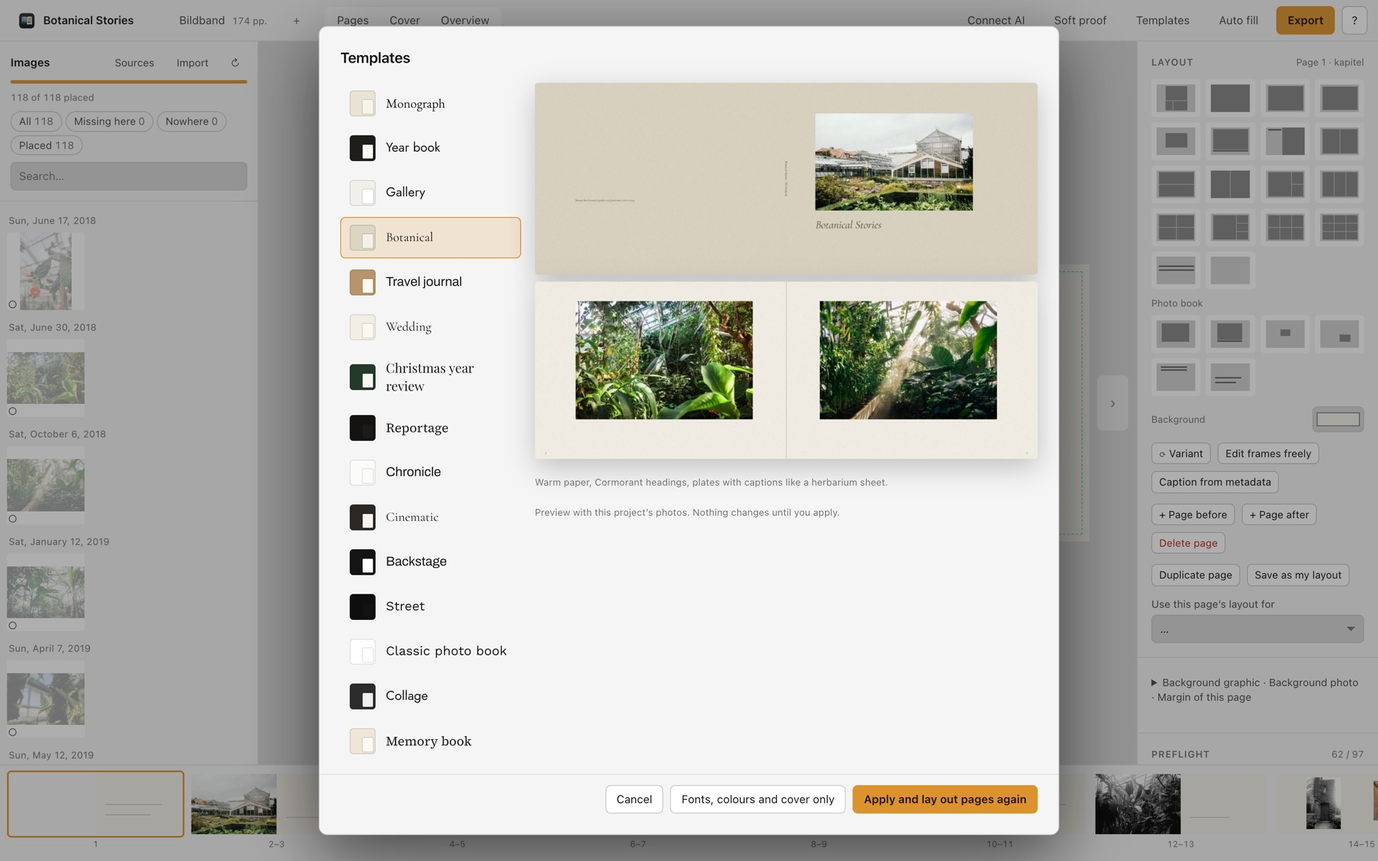
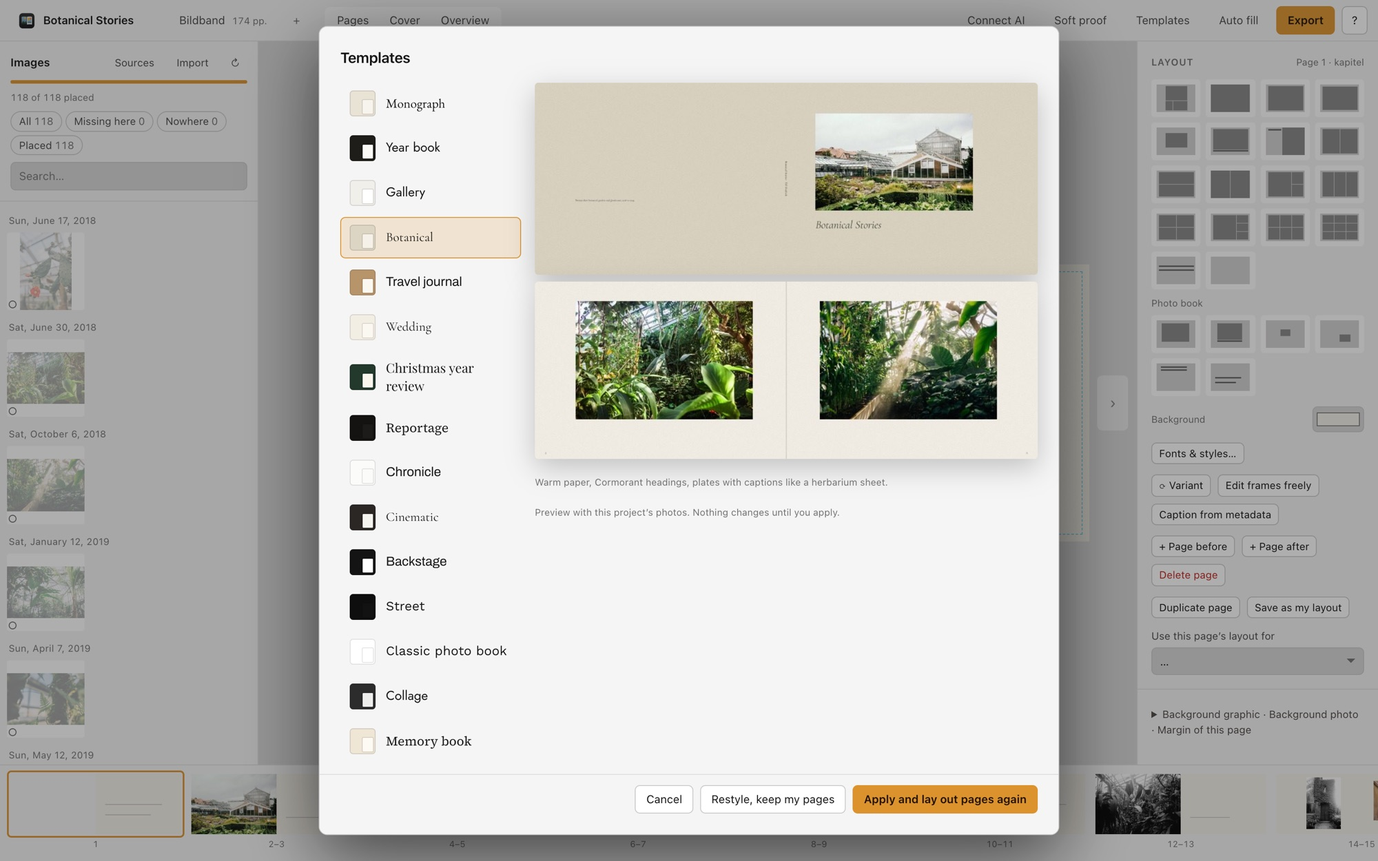
0.13.1: fonts from this Mac (incl. .ttc), fonts & styles in the page panel
- System font list with search, whole families added, .ttc split, cmap patched for Mac fonts
- Installed fonts are not packed into project files
- Italic detection from font flags; Backstage chapter size; updateSlot prototype guard
- Website/README: fonts note, release notes, templates screenshot with the new button label
- Test: sysfonts

Claude-Session: https://claude.ai/code/session_01TXoPa5GcpFpK5a3D2iG9aD

Changed region(s): [[0.837, 0.4992, 0.992, 0.7488], [0.837, 0.78, 0.992, 0.8736], [0.434, 0.9048, 0.62, 0.936]]

diff --git a/public/lib/i18n.js b/public/lib/i18n.js
@@ -21,7 +21,7 @@ export const STRINGS = {
     margin: 'Rand', gutter: 'Zusatz Bund', gap: 'Abstand', bleed: 'Beschnitt', safety: 'Sicherheitsabstand', glue: 'Klebezone', resolution: 'Auflösung',
     colorMode: 'Farbe', cmyk: 'CMYK (Druck)', rgb: 'RGB', icc: 'ICC-Profil', noIcc: 'Kein Profil gefunden – Standard-CMYK von libvips',
     font: 'Schrift', sans: 'Serifenlos', serif: 'Serif', pageBg: 'Seitenfarbe',
-    autoFill: 'Automatisch füllen', autoOrder: 'Reihenfolge', cropAspect: 'Zuschnitt (Seitenverhältnis)', cropOriginal: 'Original', reloadedExternal: 'Projekt wurde woanders geändert und neu geladen.', pagesShort: '{n} S.', onlySelected: '{n} ausgewählt → nur diese', orderLightroom: 'Wie in der Lightroom-Sammlung', orderTime: 'Aufnahmedatum', orderName: 'Dateiname', orderRating: 'Sterne (beste zuerst)', moveToSpread: 'Auf diese Doppelseite verschoben', autoTitle: 'Seiten automatisch füllen', perPage: 'Bilder pro Seite', highlight: 'Eigene Seite ab Sternen', none: 'keine',
+    autoFill: 'Automatisch füllen', autoOrder: 'Reihenfolge', macFonts: 'Schrift von diesem Mac', macFontsNote: 'Alle installierten Schriften, auch Systemschriften wie Helvetica oder Avenir. Alle Schnitte einer Familie kommen ins Projekt. Im Druck-PDF steht Text als Kurven, die Druckerei braucht die Schrift nicht. In Projektdateien zum Weitergeben werden diese Schriften nicht eingepackt.', noFonts: 'Keine passende Schrift', add: 'Hinzufügen', loading: 'Lädt …', cropAspect: 'Zuschnitt (Seitenverhältnis)', cropOriginal: 'Original', reloadedExternal: 'Projekt wurde woanders geändert und neu geladen.', pagesShort: '{n} S.', onlySelected: '{n} ausgewählt → nur diese', orderLightroom: 'Wie in der Lightroom-Sammlung', orderTime: 'Aufnahmedatum', orderName: 'Dateiname', orderRating: 'Sterne (beste zuerst)', moveToSpread: 'Auf diese Doppelseite verschoben', autoTitle: 'Seiten automatisch füllen', perPage: 'Bilder pro Seite', highlight: 'Eigene Seite ab Sternen', none: 'keine',
     which: 'Welche Bilder', onlyUnplaced: 'Nur die, die hier noch fehlen', onlyNowhere: 'Nur die, die nirgends sind', allImages: 'Alle', minStars: 'Mindestens Sterne',
     breakGaps: 'Neue Seite bei Zeitsprung (Stunden)', replacePages: 'Bestehende Seiten ersetzen', appendPages: 'Hinten anhängen', pagesCreated: '{n} Seiten angelegt',
     export: 'Export', exportTitle: 'Exportieren', fontsStylesTitle: 'Schriften und Textstile', interior: 'Inhalt', exportPrint: 'Druckdaten', exportPreview: 'Vorschau (klein, RGB)',
@@ -141,7 +141,7 @@ export const STRINGS = {
     margin: 'Margin', gutter: 'Extra gutter', gap: 'Gap', bleed: 'Bleed', safety: 'Safety margin', glue: 'Glue zone', resolution: 'Resolution',
     colorMode: 'Colour', cmyk: 'CMYK (print)', rgb: 'RGB', icc: 'ICC profile', noIcc: 'No profile found – libvips default CMYK',
     font: 'Font', sans: 'Sans serif', serif: 'Serif', pageBg: 'Page colour',
-    autoFill: 'Auto fill', autoOrder: 'Order', cropAspect: 'Crop (aspect ratio)', cropOriginal: 'Original', reloadedExternal: 'The project was changed elsewhere and has been reloaded.', pagesShort: '{n} pp.', onlySelected: '{n} selected → only these', orderLightroom: 'As in the Lightroom collection', orderTime: 'Capture date', orderName: 'File name', orderRating: 'Stars (best first)', moveToSpread: 'Moved to this spread', autoTitle: 'Fill pages automatically', perPage: 'Photos per page', highlight: 'Own page from stars', none: 'none',
+    autoFill: 'Auto fill', autoOrder: 'Order', macFonts: 'Font from this Mac', macFontsNote: 'Every installed font, system fonts like Helvetica or Avenir included. All styles of a family go into the project. Text goes into the print PDF as outlines, so the print shop needs no fonts. These fonts are not packed into project files you pass on.', noFonts: 'No matching font', add: 'Add', loading: 'Loading …', cropAspect: 'Crop (aspect ratio)', cropOriginal: 'Original', reloadedExternal: 'The project was changed elsewhere and has been reloaded.', pagesShort: '{n} pp.', onlySelected: '{n} selected → only these', orderLightroom: 'As in the Lightroom collection', orderTime: 'Capture date', orderName: 'File name', orderRating: 'Stars (best first)', moveToSpread: 'Moved to this spread', autoTitle: 'Fill pages automatically', perPage: 'Photos per page', highlight: 'Own page from stars', none: 'none',
     which: 'Which photos', onlyUnplaced: 'Only those missing here', onlyNowhere: 'Only those used nowhere', allImages: 'All', minStars: 'Minimum stars',
     breakGaps: 'New page after time gap (hours)', replacePages: 'Replace existing pages', appendPages: 'Append', pagesCreated: '{n} pages created',
     export: 'Export', exportTitle: 'Export', fontsStylesTitle: 'Fonts and text styles', interior: 'Interior', exportPrint: 'Print files', exportPreview: 'Proof (small, RGB)',

diff --git a/public/app.js b/public/app.js
@@ -839,6 +839,7 @@ function renderInspector() {
       h('h3', {}, t('layout'), h('span', {}, `${title} · ${tl(p.layout)}`)), lays,
       h('div', { class: 'row between' }, h('span', { class: 'muted' }, t('background')),
         h('input', { class: 'input', type: 'color', value: p.bg || e.bg || '#ffffff', style: { width: '60px' }, onchange: (ev) => mutate((pr) => ops.setPageProps(pr, e.id, own.owner, { bg: ev.target.value })) })),
+      h('div', { class: 'row' }, h('button', { class: 'btn small', onclick: () => stylesModal() }, t('fontsAndStyles'))),
       h('div', { class: 'row' },
         h('button', { class: 'btn small', title: 'Space', onclick: () => mutate((pr) => ops.shuffleLayout(pr, e.id, own.owner)) }, `⟳ ${t('shuffle')}`),
         p.layout !== 'frei' ? h('button', { class: 'btn small', onclick: () => mutate((pr) => ops.toFreeLayout(pr, e.id, own.owner, aspectOf)) }, t('freeEdit')) : null,
@@ -1087,7 +1088,14 @@ function stylesModal() {
               $('#fontcss').href = `/api/fonts.css?p=${S.project.id}&v=${Date.now()}`;
               toast(t('fontAdded', { name: r.result.added[0]?.name || '' })); draw(); renderAll();
             } catch (err) { toast(err.message); }
-          } }, `+ ${t('addFont')}`)),
+          } }, `+ ${t('addFont')}`),
+          h('button', { class: 'btn small', onclick: () => systemFontsModal(async (paths) => {
+            if (S.pendingSave) await save();
+            const r = await api(`/api/project/${S.project.id}/op`, { body: { op: 'addFont', args: { paths } } });
+            S.project = r.project; S.catalog = await api(`/api/design-catalog?p=${S.project.id}`);
+            $('#fontcss').href = `/api/fonts.css?p=${S.project.id}&v=${Date.now()}`;
+            toast(t('fontAdded', { name: r.result.added[0]?.name || '' })); draw(); renderAll();
+          }) }, `+ ${t('macFonts')}`)),
         h('small', { class: 'muted' }, t('fontNote')));
     };
     draw();
@@ -1421,6 +1429,33 @@ function editionModal(existing) {
 // A selection is laid out in the chosen order, not in the order the photos were clicked.
 function orderedSelection(order) {
   return ops.orderItems(S.pool.filter((it) => S.poolSel.has(it.key)), order).map((it) => it.key);
+}
+
+// Fonts installed on this computer: search, pick a family, all its styles are added to the project.
+function systemFontsModal(onPick) {
+  modal((close) => {
+    const list = h('div', { class: 'list sysfonts' }, h('small', { class: 'muted' }, t('loading')));
+    const search = h('input', { class: 'input', type: 'search', placeholder: t('search'), autofocus: true });
+    let all = [];
+    const draw = () => {
+      const q = search.value.trim().toLowerCase();
+      list.innerHTML = '';
+      const hits = all.filter((f) => !q || f.family.toLowerCase().includes(q)).slice(0, 200);
+      if (!hits.length) list.append(h('small', { class: 'muted' }, t('noFonts')));
+      for (const f of hits) {
+        const styles = f.styles.map((x) => `${x.weight}${x.italic ? 'i' : ''}`).join(' · ');
+        list.append(h('div', { class: 'row between' }, h('div', {}, h('b', {}, f.family), h('div', { class: 'muted small' }, styles)),
+          h('button', { class: 'btn small', onclick: async (ev) => {
+            ev.target.disabled = true;
+            try { await onPick(f.styles.map((x) => x.path)); close(); } catch (err) { toast(err.message); ev.target.disabled = false; }
+          } }, t('add'))));
+      }
+    };
+    search.addEventListener('input', draw);
+    api('/api/system-fonts').then((r) => { all = r; draw(); }).catch((err) => { list.innerHTML = ''; list.append(h('small', { class: 'muted' }, err.message)); });
+    return [h('h2', {}, t('macFonts')), h('p', { class: 'muted' }, t('macFontsNote')), search, list,
+      h('div', { class: 'foot' }, h('button', { class: 'btn', onclick: close }, t('close')))];
+  }, { wide: true });
 }
 
 function autoModal() {

diff --git a/public/lib/templates.js b/public/lib/templates.js
@@ -154,7 +154,7 @@ export const TEMPLATES = [
     font: 'archivo',
     styles: {
       cover: { size: 72, weight: 700, caps: true, tracking: -40, color: '#ffffff', align: 'left' }, title: { size: 34, weight: 700, caps: true, tracking: -30, align: 'left' },
-      chapter: { size: 88, weight: 700, tracking: -50, color: '#141414', align: 'left' }, caption: { size: 7.5, weight: 700, caps: true, tracking: 60, color: '#141414', align: 'left' },
+      chapter: { size: 64, weight: 700, tracking: -40, color: '#141414', align: 'left' }, caption: { size: 7.5, weight: 700, caps: true, tracking: 60, color: '#141414', align: 'left' },
       body: { size: 9.5, leading: 1.35, weight: 500 }, spine: { size: 11, weight: 700, caps: true, tracking: 0 },
     },
     page: { bg: '#ffffff' },

diff --git a/public/styles.css b/public/styles.css
@@ -354,3 +354,6 @@ img.bgthumb{width:48px;height:32px;object-fit:cover;border-radius:3px}
 .tpl-view { display: grid; gap: var(--s2); }
 .tpl-imgs { display: grid; gap: var(--s2); }
 .tpl-prev { width: 100%; border-radius: 4px; background: var(--ink-2); min-height: 120px; box-shadow: var(--stage-shadow); }
+.sysfonts { max-height: 420px; margin-top: 10px; }
+.sysfonts .row { padding: 6px 8px; border-bottom: 1px solid var(--line-soft); }
+.sysfonts .small { font-size: 11px; }

diff --git a/site/build.py b/site/build.py
@@ -6,7 +6,7 @@ import os, sys, html, shutil
 
 REPO = "https://github.com/tillheidrich/billerbook"
 DL = REPO + "/releases/latest"
-VERSION = "0.13.0"
+VERSION = "0.13.1"
 BASE = "https://billerbook.heidrich-digital.de/"
 
 ARROW = '<svg class="i" viewBox="0 0 16 16" aria-hidden="true"><path d="M4 12 12 4M6 4h6v6"/></svg>'
@@ -36,7 +36,7 @@ T = {
    ("w5", "Ask your AI to build the book", "Billerbook includes an MCP server with 51 tools for Claude, ChatGPT, Codex or Cursor. Connect ChatGPT or claude.ai with a six-digit code from the app. The assistant reads a folder, a web page or your print shop's data sheet, sets up the print profile, lays out the book, looks at every spread as an image and fixes the ones that don't work. You check the result in the app.", None, "prompt"),
    ("w7", "Your print shop, its rules", "208 formats from Blurb, Amazon KDP, Lulu, IngramSpark, Mixam, Saal Digital, CEWE, WhiteWall, PrestoPhoto and WIRmachenDRUCK, plus standard photo book, book and magazine sizes and a special size for every binding. The spine width follows from page count and paper, using the printer's own formula or table. Hand your assistant the print shop's data sheet PDF and it sets up trim, bleed, cover and page rules from it. Magazines come with saddle stitching and a separate four-page cover if the printer wants one.", "app-printsettings.webp", None),
    ("w6", "In the book, and visible in Lightroom", "Billerbook reads your Lightroom Classic catalog and never writes to it, and lays out in the order of your collection, custom order included. The optional plug-in exports the print files with your edits, keeps a collection per edition in Lightroom and one with the photos still missing. Books from the Book module import with their pages, and the 240-page limit is gone: that one comes from Blurb, not from your book.", "app-overview-012.webp", None),
-   ("w6", "Fifteen book styles", "From a quiet monograph to loud backstage: Reportage in black and white on dark paper, Chronicle with place and date under every photo, Cinematic with lots of full bleed, Street, and the classic lab look. Apply one to a finished book and it takes the style while your own pages stay. Preview with your own photos first.", "app-templates-013.webp", None),
+   ("w6", "Fifteen book styles", "From a quiet monograph to loud backstage: Reportage in black and white on dark paper, Chronicle with place and date under every photo, Cinematic with lots of full bleed, Street, and the classic lab look. Apply one to a finished book and it takes the style while your own pages stay. Preview with your own photos first.", "app-templates-0131.webp", None),
    ("w6", "Everything the Book module does", "Duplicate pages, copy a layout to the next page or to every page with the same number of photos, save your own layouts, set a background photo with opacity, change margin and gap on one page, hide a page number.", "app-pagetools.webp", None),
    ("w6", "Cover with a real spine", "The cover is sized from page count and paper, including spine width, turn-in and hinge. Billerbook sets the title and spine text, and you can change both. Preflight warns about low resolution, the glue zone, page limits and an estimated spine before you pay.", "app-cover-012.webp", None),
   ],
@@ -122,7 +122,7 @@ T = {
    ("w5", "Lass deine KI das Buch bauen", "Billerbook bringt einen MCP-Server mit 51 Werkzeugen für Claude, ChatGPT, Codex oder Cursor mit. ChatGPT und claude.ai verbindest du mit einem sechsstelligen Code aus der App. Der Assistent liest einen Ordner, eine Webseite oder das Datenblatt deiner Druckerei, richtet das Druckprofil ein, legt das Buch an, sieht sich jede Doppelseite als Bild an und ändert die, die nicht funktionieren. Du prüfst das Ergebnis in der App.", None, "prompt"),
    ("w7", "Deine Druckerei, ihre Regeln", "208 Formate von WIRmachenDRUCK, Saal Digital, CEWE, WhiteWall, Blurb, Amazon KDP, Lulu, IngramSpark, Mixam und PrestoPhoto, dazu gängige Fotobuch-, Buch- und Magazinformate und ein Sonderformat für jede Bindung. Die Rückenbreite folgt aus Seitenzahl und Papier, nach Formel oder Tabelle der Druckerei. Gib deinem Assistenten das Datenblatt der Druckerei als PDF, dann richtet er Endformat, Beschnitt, Umschlag und Seitenregeln danach ein. Magazine gibt es mit Rückendrahtheftung und auf Wunsch mit separatem vierseitigem Umschlag.", "app-printsettings.webp", None),
    ("w6", "Im Buch, und in Lightroom sichtbar", "Billerbook liest deinen Lightroom-Classic-Katalog, schreibt nie hinein und gestaltet in der Reihenfolge deiner Sammlung, auch einer eigenen. Das Plug-in exportiert die Druckdateien mit deinen Entwicklungen, legt eine Sammlung je Edition an und eine mit den Fotos, die noch fehlen. Bücher aus dem Buch-Modul kommen samt Seiten mit, und die 240-Seiten-Grenze fällt weg: Die kommt von Blurb, nicht von deinem Buch.", "app-overview-012.webp", None),
-   ("w6", "Fünfzehn Buchstile", "Von der ruhigen Monografie bis Backstage: Reportage in Schwarzweiß auf dunklem Papier, Zeitdokument mit Ort und Datum unter jedem Foto, Kinematisch mit viel Randlosem, Straße und der klassische Fotobuch-Look. Auf ein fertiges Buch angewendet übernimmt es den Stil, deine eigenen Seiten bleiben. Vorher mit deinen Fotos ansehen.", "app-templates-013.webp", None),
+   ("w6", "Fünfzehn Buchstile", "Von der ruhigen Monografie bis Backstage: Reportage in Schwarzweiß auf dunklem Papier, Zeitdokument mit Ort und Datum unter jedem Foto, Kinematisch mit viel Randlosem, Straße und der klassische Fotobuch-Look. Auf ein fertiges Buch angewendet übernimmt es den Stil, deine eigenen Seiten bleiben. Vorher mit deinen Fotos ansehen.", "app-templates-0131.webp", None),
    ("w6", "Alles, was das Buch-Modul kann", "Seiten duplizieren, ein Layout auf die nächste Seite oder alle Seiten mit gleich vielen Fotos übertragen, eigene Layouts speichern, Hintergrundfoto mit Deckkraft, Rand und Abstand je Seite, Seitenzahl ausblenden.", "app-pagetools.webp", None),
    ("w6", "Umschlag mit echtem Buchrücken", "Der Umschlag wird aus Seitenzahl und Papier berechnet, mit Rückenbreite, Einschlag und Falz. Billerbook setzt Titel und Rückentext, du kannst beides ändern. Die Prüfung meldet zu geringe Auflösung, die Klebezone, Seitengrenzen und einen geschätzten Rücken, bevor du bezahlst.", "app-cover-012.webp", None),
   ],
@@ -361,7 +361,7 @@ K = {
    "web": ("tillheidrich.de · 22 galleries", [("22", "Gallery pages read", "ok", "OK"), ("8", "Photos per garden, evenly spread", "", "Picked"), ("H1", "Titles became chapter pages", "ok", "Chapters"), ("Text", "Paragraphs became text pages", "", "Pages")],
           "How the example book was made", "A website in, a book out", "Botanical Stories came from 22 galleries in one import."),
   },
-  notes=[("Several editions.", "A big landscape hardcover and a short portrait softcover from the same photos."), ("Crop like Lightroom.", "Square, 4:5, 3:2, 16:9 or panorama per photo; Billerbook finds the subject and crops around it."), ("Captions.", "From the photo's metadata, editable on the page."), ("Your fonts.", "Nine open-licence typefaces built in, your own TTF or OTF on top.")],
+  notes=[("Several editions.", "A big landscape hardcover and a short portrait softcover from the same photos."), ("Crop like Lightroom.", "Square, 4:5, 3:2, 16:9 or panorama per photo; Billerbook finds the subject and crops around it."), ("Captions.", "From the photo's metadata, editable on the page."), ("Your fonts.", "Nine open-licence typefaces built in, plus any font installed on your Mac or your own TTF or OTF.")],
   steps_h="From folder to print shop", steps_h2="in an afternoon.",
   steps_cta="Download Billerbook",
   steps=[("Add photos.", "A folder, a Lightroom collection, a Capture One album or a web page."), ("Pick the print shop.", "Format, paper and binding; the spine follows from the page count."),
@@ -380,7 +380,8 @@ K = {
   off_svg=dict(photos="Your photos", photos2="Folder, Lightroom, Capture One", app="Billerbook", app2="on your Mac", pdf="Print PDFs", pdf2="Interior and cover", shop="Print shop", shop2="You upload", ai="AI assistant", ai2="Six-digit code, no file paths"),
   story_h="Why it exists",
   log_h="Release notes", log_sub="What changed lately. Every version is on GitHub with its download.",
-  log=[("0.13.0", "Fifteen book styles, four of them in the manner of well-known photo books, crop ratios like in Lightroom, portrait photos at full page height.", "2026-11-26"),
+  log=[("0.13.1", "Any font installed on your Mac, Helvetica and Avenir included; fonts and styles from the page panel.", "2026-11-26"),
+       ("0.13.0", "Fifteen book styles, four of them in the manner of well-known photo books, crop ratios like in Lightroom, portrait photos at full page height.", "2026-11-26"),
        ("0.12.0", "Lightroom plug-in exports the print files itself, previews straight from RAW files, layout in the order of your Lightroom collection, drag photos onto any spread.", "2026-11-26"),
        ("0.11.1", "Fixes from an independent security review of the new import and export paths.", "2026-11-22"),
        ("0.11.0", "208 formats, magazines, data-sheet setup, templates and fonts, IDML for Affinity and InDesign, Capture One, page overview, ChatGPT and claude.ai over OAuth.", "2026-11-22"),
@@ -470,7 +471,7 @@ K = {
    "web": ("tillheidrich.de · 22 Galerien", [("22", "Galerieseiten gelesen", "ok", "OK"), ("8", "Fotos je Garten, gleichmäßig verteilt", "", "Gewählt"), ("H1", "Titel wurden Kapitelseiten", "ok", "Kapitel"), ("Text", "Absätze wurden Textseiten", "", "Seiten")],
           "So entstand das Beispielbuch", "Eine Website rein, ein Buch raus", "Botanical Stories kam in einem Import aus 22 Galerien."),
   },
-  notes=[("Mehrere Editionen.", "Ein großes Hardcover quer und ein kurzes Softcover hochkant aus denselben Fotos."), ("Zuschnitt wie in Lightroom.", "Quadratisch, 4:5, 3:2, 16:9 oder Panorama pro Foto; Billerbook findet das Motiv und schneidet darum herum zu."), ("Bildunterschriften.", "Aus den Metadaten der Fotos, auf der Seite änderbar."), ("Deine Schriften.", "Neun freie Schriften eingebaut, eigene TTF oder OTF dazu.")],
+  notes=[("Mehrere Editionen.", "Ein großes Hardcover quer und ein kurzes Softcover hochkant aus denselben Fotos."), ("Zuschnitt wie in Lightroom.", "Quadratisch, 4:5, 3:2, 16:9 oder Panorama pro Foto; Billerbook findet das Motiv und schneidet darum herum zu."), ("Bildunterschriften.", "Aus den Metadaten der Fotos, auf der Seite änderbar."), ("Deine Schriften.", "Neun freie Schriften eingebaut, dazu jede Schrift auf deinem Mac oder eigene TTF und OTF.")],
   steps_h="Vom Ordner zur Druckerei", steps_h2="an einem Nachmittag.",
   steps_cta="Billerbook laden",
   steps=[("Fotos holen.", "Ein Ordner, eine Lightroom-Sammlung, ein Capture-One-Album oder eine Webseite."), ("Druckerei wählen.", "Format, Papier und Bindung; der Rücken folgt aus der Seitenzahl."),
@@ -489,7 +490,8 @@ K = {
   off_svg=dict(photos="Deine Fotos", photos2="Ordner, Lightroom, Capture One", app="Billerbook", app2="auf deinem Mac", pdf="Druck-PDFs", pdf2="Inhalt und Umschlag", shop="Druckerei", shop2="Du lädst hoch", ai="KI-Assistent", ai2="Sechsstelliger Code, keine Pfade"),
   story_h="Warum es das gibt",
   log_h="Was neu ist", log_sub="Die letzten Versionen. Jede steht mit Download auf GitHub.",
-  log=[("0.13.0", "Fünfzehn Buchstile, vier davon im Stil bekannter Fotobücher, Zuschnitt mit Seitenverhältnis wie in Lightroom, Hochformate in voller Seitenhöhe.", "2026-11-26"),
+  log=[("0.13.1", "Jede Schrift auf deinem Mac, auch Helvetica und Avenir; Schriften und Stile direkt in den Seiteneinstellungen.", "2026-11-26"),
+       ("0.13.0", "Fünfzehn Buchstile, vier davon im Stil bekannter Fotobücher, Zuschnitt mit Seitenverhältnis wie in Lightroom, Hochformate in voller Seitenhöhe.", "2026-11-26"),
        ("0.12.0", "Das Lightroom-Plug-in exportiert die Druckdateien selbst, Vorschauen direkt aus RAW-Dateien, Gestaltung in der Reihenfolge deiner Lightroom-Sammlung, Fotos auf jede Doppelseite ziehen.", "2026-11-26"),
        ("0.11.1", "Korrekturen aus einer unabhängigen Sicherheitsprüfung der neuen Import- und Exportwege.", "2026-11-22"),
        ("0.11.0", "208 Formate, Magazine, Einrichtung per Datenblatt, Vorlagen und Schriften, IDML für Affinity und InDesign, Capture One, Seitenübersicht, ChatGPT und claude.ai über OAuth.", "2026-11-22"),
@@ -810,7 +812,7 @@ def how_page(t):
         if items:
             right = '<ul class="ticks">' + "".join(f'<li><b>{esc(x)}.</b> {esc(y)}</li>' for x, y in items) + '</ul>'
             if n == 1:
-                right += f'<figure class="ovfig u-mt36"><img src="{root}assets/img/app-templates-013.webp" width="2000" height="1250" alt="{"The template picker with fifteen styles and a preview from your own photos" if en else "Die Vorlagenauswahl mit fünfzehn Stilen und einer Vorschau aus deinen Fotos"}" loading="lazy"></figure>'
+                right += f'<figure class="ovfig u-mt36"><img src="{root}assets/img/app-templates-0131.webp" width="2000" height="1250" alt="{"The template picker with fifteen styles and a preview from your own photos" if en else "Die Vorlagenauswahl mit fünfzehn Stilen und einer Vorschau aus deinen Fotos"}" loading="lazy"></figure>'
                 right += f'<figure class="ovfig u-mt36"><img src="{root}assets/img/app-editor-012.webp" width="2000" height="1250" alt="{"A portrait plate at full page height, crop ratio and tone in the inspector" if en else "Ein Hochformat in voller Seitenhöhe, Zuschnitt und Tonung im Inspektor"}" loading="lazy"></figure>'
         elif n == 2:
             right = f'<div class="u-stack"><figure class="proof"><span class="cm"></span><img src="{root}assets/img/hc-spread-1.webp" width="2000" height="707" alt="{"Landscape hardcover spread" if en else "Doppelseite Hardcover quer"}" loading="lazy"><figcaption>{t["ed_caps"][0]}</figcaption></figure><figure class="proof u-w70"><span class="cm"></span><img src="{root}assets/img/sc-spread-2.webp" width="1400" height="990" alt="{"Portrait softcover spread with the same photos" if en else "Softcover-Doppelseite hochkant mit denselben Fotos"}" loading="lazy"><figcaption>{t["ed_caps"][1]}</figcaption></figure></div>'

diff --git a/README.md b/README.md
@@ -30,7 +30,7 @@ Open source · macOS app · works with Lightroom Classic, Capture One or any fol
 
 **Free frames when you need them.** Turn any layout into free frames. Drag the ✥ handle to move a frame, drag the corner to resize, or type position and size in millimetres. Frames snap to margins, centre, thirds, the gutter and the canon block.
 
-**Typography that prints as it looks.** Nine open-licence typefaces are built in (EB Garamond, Source Serif 4, Cormorant Garamond, Playfair Display, DM Serif Display, Work Sans, Jost, Archivo, Caveat), and you can add your own TTF or OTF. Text styles per edition hold font, weight, italic, size, leading, tracking, capitals and colour; change a style and every text using it follows. Text goes into the PDF as outlines, so the print shop needs no fonts, and the editor shows the exact line breaks the PDF will have. Preflight warns when text does not fit its frame or is smaller than 6 pt.
+**Typography that prints as it looks.** Nine open-licence typefaces are built in (EB Garamond, Source Serif 4, Cormorant Garamond, Playfair Display, DM Serif Display, Work Sans, Jost, Archivo, Caveat), and you can add your own TTF or OTF or pick any font installed on your Mac (Helvetica, Avenir Next, Futura …), font collections included. Text styles per edition hold font, weight, italic, size, leading, tracking, capitals and colour; change a style and every text using it follows. Text goes into the PDF as outlines, so the print shop needs no fonts, and the editor shows the exact line breaks the PDF will have. Preflight warns when text does not fit its frame or is smaller than 6 pt.
 
 **Tones and graphics.** Black and white, warm, sepia, selenium or cool per photo, without touching the original. Eleven background graphics (paper, kraft, linen, gradient, vignette, frames, corner marks, dot grid, ruled lines), drawn as vector graphics with lines no thinner than 0.3 mm.
 

diff --git a/CHANGELOG.md b/CHANGELOG.md
@@ -1,5 +1,16 @@
 # Changelog
 
+## 0.13.1 – 26 Nov 2026
+
+Fonts and colours
+- *Font from this Mac*: every installed font in a searchable list, system fonts like Helvetica, Avenir Next or Futura included, all styles of a family added at once. Font collections (.ttc) are split into single fonts; Mac fonts whose character map the text engine could not read now work. Fonts installed on the computer are not packed into project files you pass on (licence); the PDF has text as outlines either way.
+- *Fonts & styles…* is now also in the page panel, not only when a text is selected. Colours for pages, every text style, graphics and the cover were there already.
+- Style and weight of a font are read from the font's own flags, so italic cuts are no longer taken for regular ones.
+
+Fixes
+- Backstage: smaller chapter titles so three lines no longer run into the caption.
+- `updateSlot` ignores prototype keys in a patch.
+
 ## 0.13.0 – 26 Nov 2026
 
 Book styles
